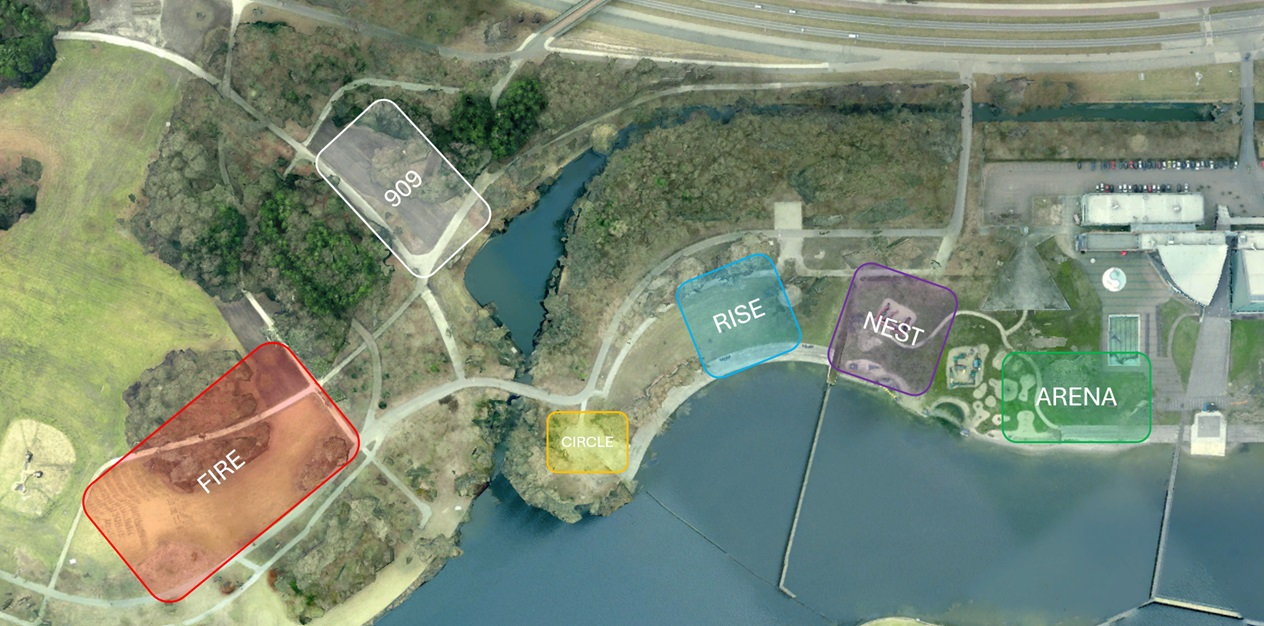
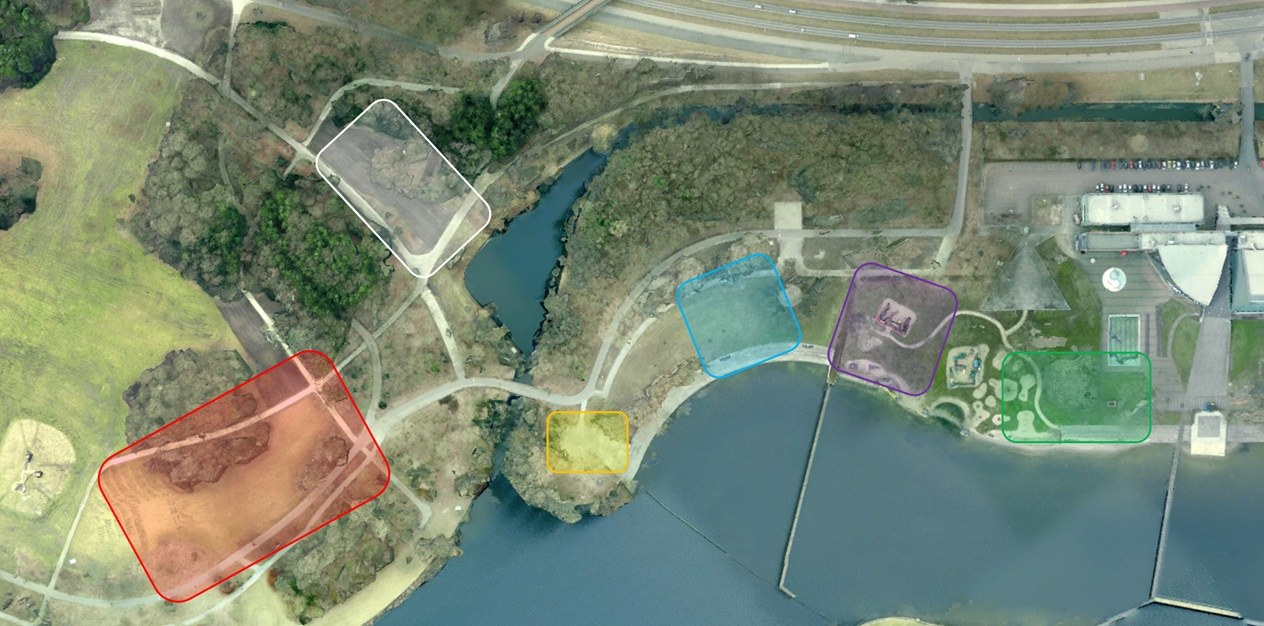
Menu y splash con imagenes nuevas, ocultar contador Loveland

diff --git a/src/pages/Menu.jsx b/src/pages/Menu.jsx
@@ -1,36 +1,30 @@
 import { useNavigate } from 'react-router-dom';
 import { loadSession } from '../lib/db';
-import { Logo } from '../components/Logo';
 
 export default function Menu() {
   const nav = useNavigate();
   const session = loadSession();
   if (!session) { nav('/'); return null; }
 
-  const Item = ({ label, to }) => (
-    <button className="neon-box" style={{ '--nc': 'var(--cyan)', ...S.big }} onClick={() => nav(to)}>
-      <span className="neon-hollow" style={{ '--nc': 'var(--cyan)', ...S.bigTxt }}>{label}</span>
-    </button>
-  );
-
+  // La imagen nueva_1 tiene NEMO arriba y 3 botones (Timetable/Maps/Chat) en la
+  // mitad inferior. Ponemos la imagen de fondo y 3 zonas tocables sobre cada botón.
+  // Los porcentajes están medidos sobre la imagen (768x1376).
   return (
     <div style={S.root}>
-      {/* solo el pin (sin wordmark), como la referencia */}
-      <div style={S.pin}><Logo size={92} pinOnly /></div>
-
-      <div style={S.list}>
-        <Item label="Timetable" to="/lineup" />
-        <Item label="Maps" to="/mapa" />
-        <Item label="Chat" to="/chat" />
+      <div style={S.bgWrap}>
+        <img src="/menu-bg.jpeg" alt="NEMO" style={S.bg} draggable={false} />
+        {/* zonas tocables sobre los botones dibujados */}
+        <button style={{ ...S.hit, top: '50.5%', height: '11.5%' }} onClick={() => nav('/lineup')} aria-label="Timetable" />
+        <button style={{ ...S.hit, top: '65.5%', height: '11.5%' }} onClick={() => nav('/mapa')} aria-label="Maps" />
+        <button style={{ ...S.hit, top: '80.5%', height: '11.5%' }} onClick={() => nav('/chat')} aria-label="Chat" />
       </div>
     </div>
   );
 }
 
 const S = {
-  root: { flex: 1, position: 'relative', display: 'flex', flexDirection: 'column', alignItems: 'center', padding: '48px 30px 40px' },
-  pin: { marginBottom: 40 },
-  list: { width: '100%', display: 'flex', flexDirection: 'column', alignItems: 'center', gap: 34, marginTop: 10 },
-  big: { width: '100%', maxWidth: 330, aspectRatio: '2.6 / 1', display: 'flex', alignItems: 'center', justifyContent: 'center', borderRadius: 14 },
-  bigTxt: { fontSize: 38, fontWeight: 700, letterSpacing: 1 },
+  root: { flex: 1, position: 'relative', display: 'flex', background: '#0a0a0c', overflow: 'hidden' },
+  bgWrap: { position: 'relative', width: '100%', height: '100%' },
+  bg: { position: 'absolute', inset: 0, width: '100%', height: '100%', objectFit: 'cover', display: 'block' },
+  hit: { position: 'absolute', left: '8%', width: '84%', background: 'transparent', border: 'none', padding: 0, cursor: 'pointer', WebkitTapHighlightColor: 'rgba(53,231,225,0.15)' },
 };

diff --git a/src/pages/Splash.jsx b/src/pages/Splash.jsx
@@ -1,21 +1,13 @@
-import { Logo } from '../components/Logo';
-
-// Pantalla de carga inicial (como la referencia): pin + NEMO + Loading.
+// Pantalla de carga inicial: imagen nueva_2 (NEMO + Loading) a pantalla completa.
 export default function Splash() {
   return (
     <div style={S.root}>
-      <Logo size={150} />
-      <div style={S.loading}>
-        <span style={S.spinner} />
-        <span className="neon-text" style={{ '--nc': 'var(--cyan)', ...S.loadingTxt }}>Loading…</span>
-      </div>
+      <img src="/splash-bg.jpeg" alt="NEMO" style={S.bg} draggable={false} />
     </div>
   );
 }
 
 const S = {
-  root: { flex: 1, display: 'flex', flexDirection: 'column', alignItems: 'center', justifyContent: 'center', gap: 60 },
-  loading: { display: 'flex', alignItems: 'center', gap: 12 },
-  spinner: { width: 22, height: 22, borderRadius: 11, border: '3px solid rgba(53,231,225,0.25)', borderTopColor: 'var(--cyan)', animation: 'spin 0.8s linear infinite', display: 'inline-block' },
-  loadingTxt: { fontSize: 22, fontWeight: 700 },
+  root: { flex: 1, position: 'relative', background: '#0a0a0c', overflow: 'hidden' },
+  bg: { position: 'absolute', inset: 0, width: '100%', height: '100%', objectFit: 'cover', display: 'block' },
 };

diff --git a/src/pages/Mapa.jsx b/src/pages/Mapa.jsx
@@ -264,9 +264,13 @@ export default function Mapa() {
       {/* barra superior horizontal */}
       <div style={S.top}>
         <button style={S.pill} onClick={() => nav('/menu')}>‹ SALIR</button>
+        {/* botón de Loveland (contador) OCULTO temporalmente — no funciona como se quiere.
+            Para reactivarlo, cambiar false por true. */}
+        {false && (
         <button style={{ ...S.pill, ...S.pillLive }} onClick={() => setShowMon((v) => !v)}>
           {VENUE.name.toUpperCase()} · {active} {showMon ? '▲' : '▼'}
         </button>
+        )}
         <button style={{ ...S.pill, ...S.pillCal }} onClick={() => nav('/lineup')} title="Line-up">📅</button>
         <button style={{ ...S.pill, ...S.pillPin, ...(placing ? S.pillPinOn : {}) }}
           onClick={() => setPlacing((v) => !v)} title="Marcar punto de encuentro">📍</button>
